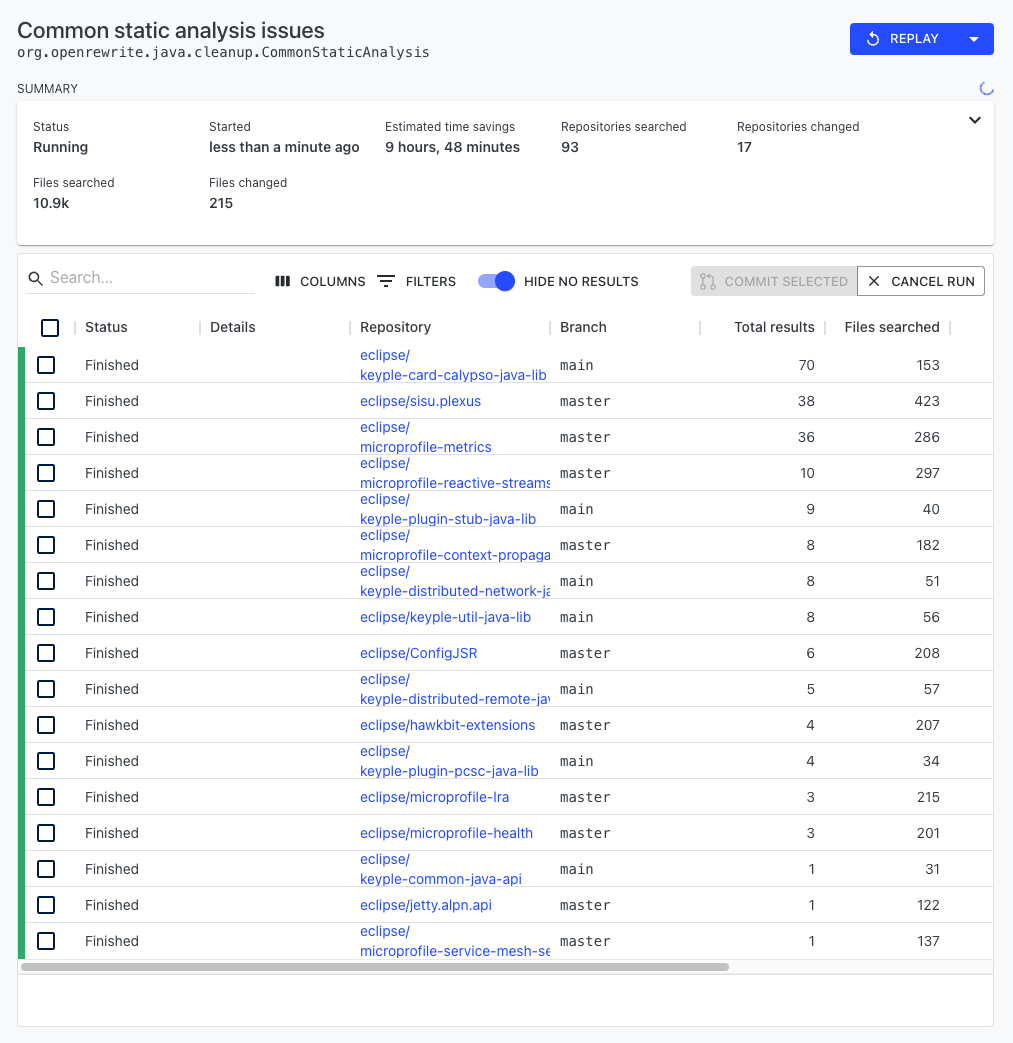
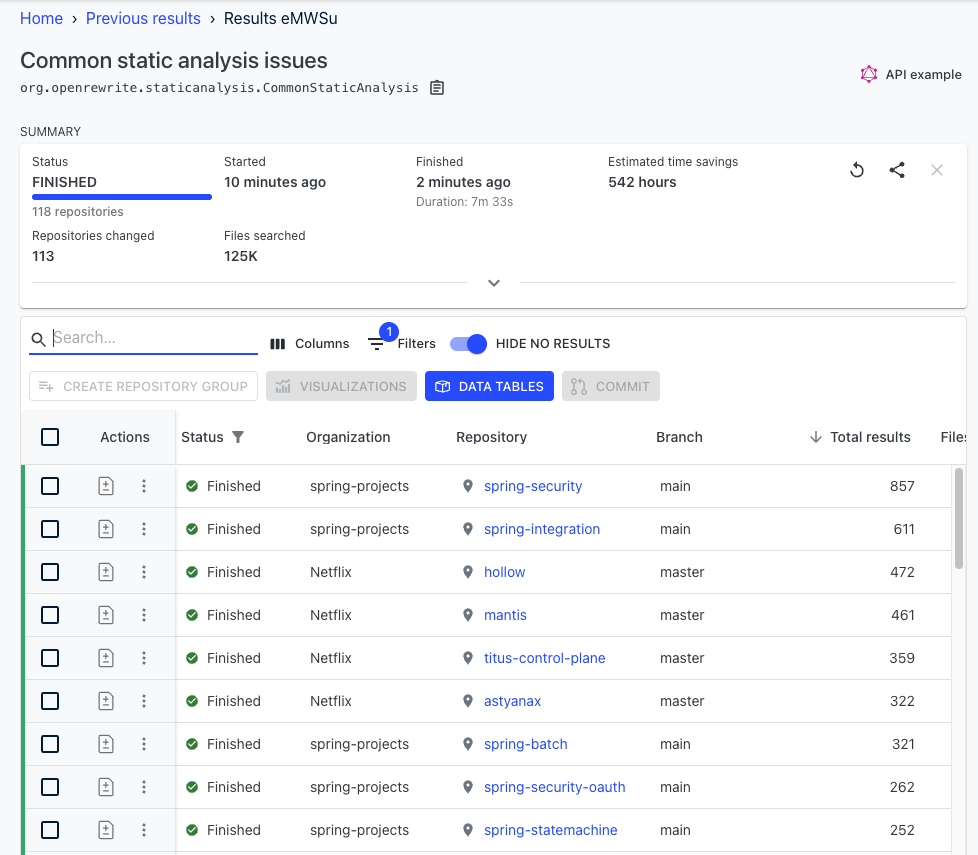
Update static analysis page
To reflect where the recipe lives now and to update the photos to
be more in line with what the saas looks like now.

diff --git a/user-documentation/code-quality.md b/user-documentation/code-quality.md
@@ -17,8 +17,8 @@ Moderne's [Common static analysis recipe](https://app.moderne.io/recipes/org.ope
 
 To get to this recipe:
 
-* From the home page, click on `Catalog` in the top left corner. This will take you to the recipe catalog.
-* From there, click on `Java` and then `Cleanup`.
+* From the home page, click on `Marketplace` in the top left corner. This will take you to the recipe marketplace.
+* From there, click on `Static analysis and remediation`.
 *   At the top, you should see a recipe called `Common static analysis issues`. If you click on it, it will expand slightly. Click on `More details` to be taken to [this](https://app.moderne.io/recipes/org.openrewrite.staticanalysis.CommonStaticAnalysis) page:
 
     ![](../.gitbook/assets/common-static-analysis-recipe.png)
@@ -28,6 +28,10 @@ To get to this recipe:
 The bottom half of the page lists all of the recipes that will be run as part of this analysis. You can click on the checkbox next to any of them to enable or disable that particular recipe from being run. You can also click on the recipes themselves to get more information about that specific recipe or to run just that one.
 
 When you're ready to run the recipe, select the repositories you wish to run on and then press `Dry Run`. You will then be redirected to a page that looks like this:
+
+{% hint style="info" %}
+As the code in the SaaS is constantly changing, your results will more than likely be different.
+{% endhint %}
 
 ![](../.gitbook/assets/common-static-analysis-run.png)
 
